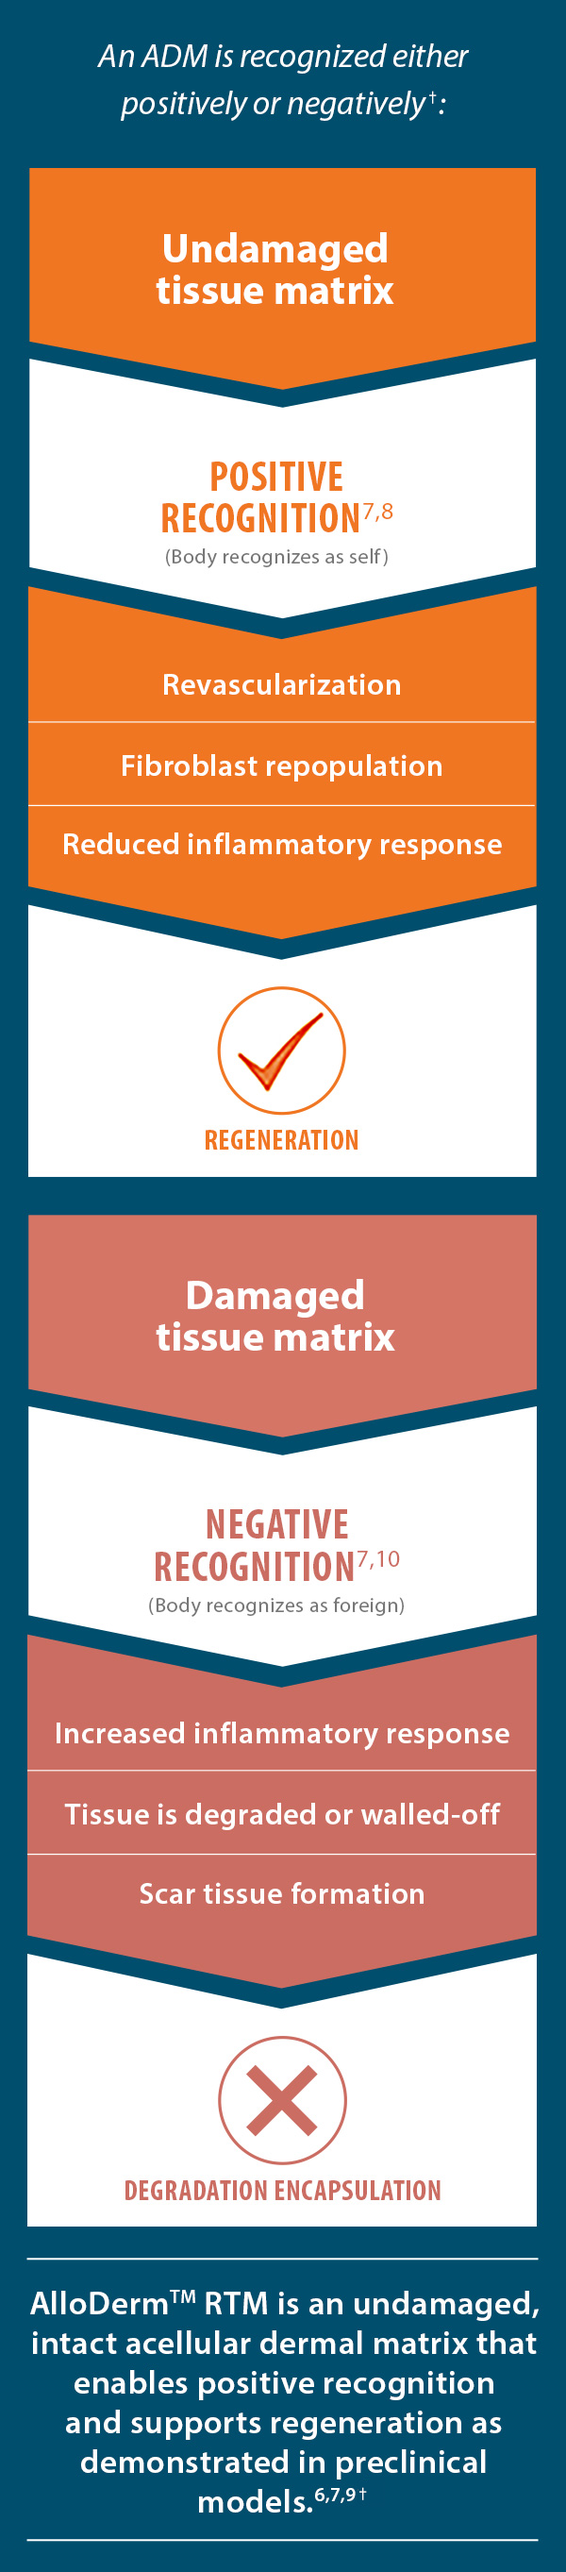
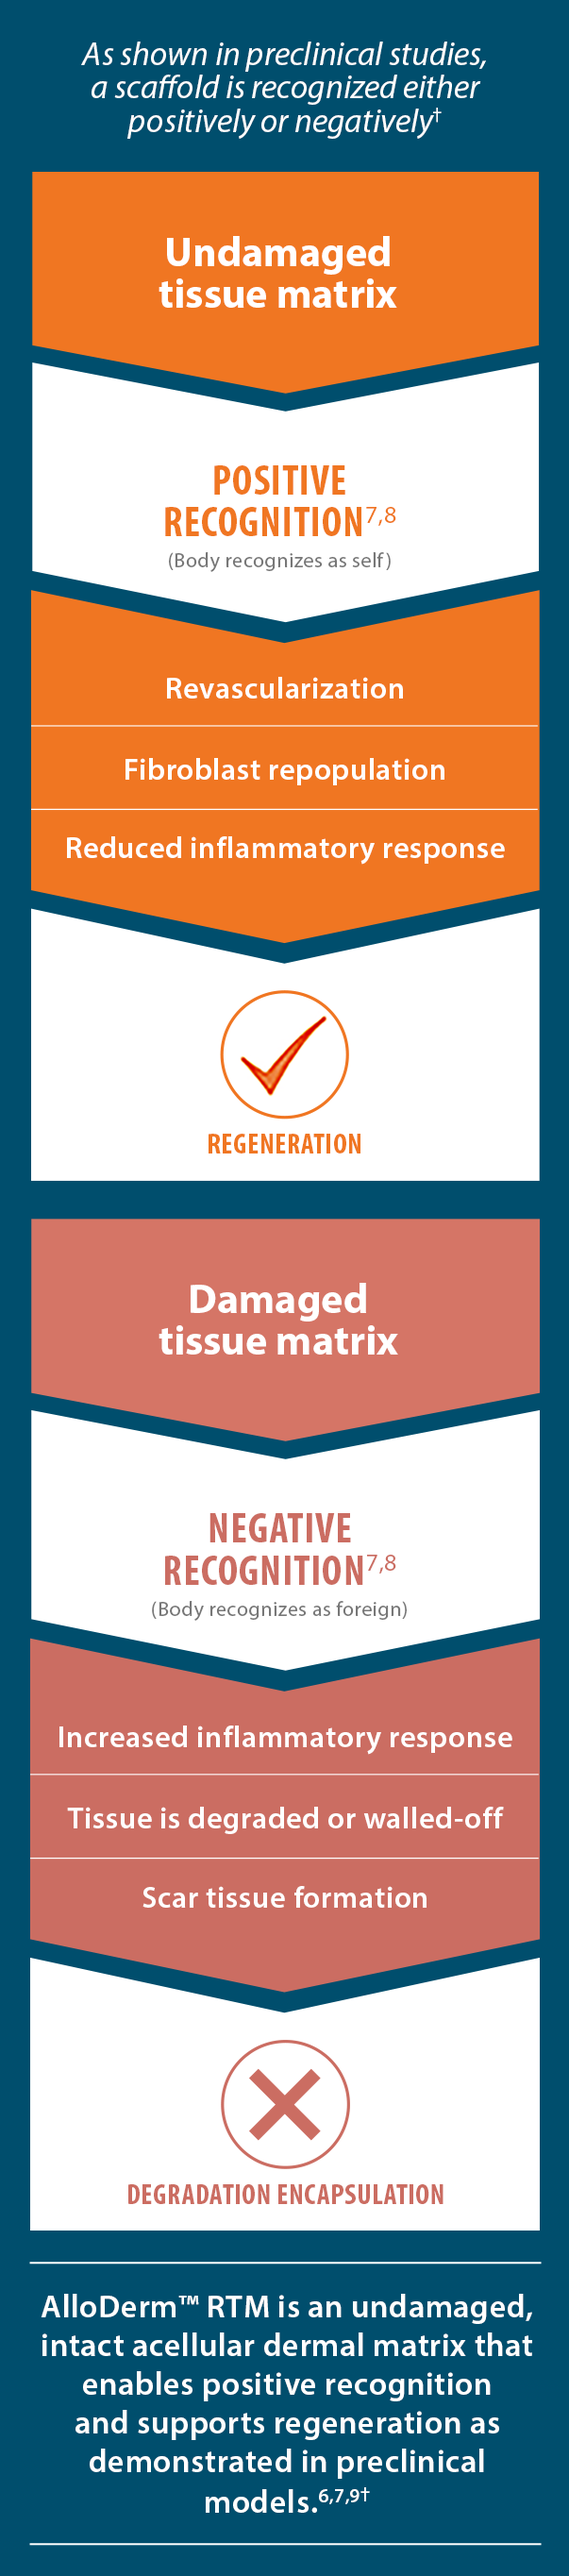
[chore] feedback

diff --git a/src/biologyofrepair.html b/src/biologyofrepair.html
@@ -450,9 +450,9 @@ Complex acellular heterogenous scaffold and blood vessel architecture
 <div class="item">
     <div>
             <div class="item-img">
-<img src="-/media/project/alloderm2022/redesign/biologyrepair/regenerationdesktop.jpg?h=587&amp;w=995&amp;la=en&amp;hash=74D7E18EC94D5CF6FD2FC6175ECB93BEF9672FA8" class="img-fluid d-none d-lg-inline-block d-sm-none d-md-none" alt="" /><img src="-/media/project/alloderm2022/redesign/biologyrepair/Biolregenerationdesktop.jpg?h=587&amp;w=995&amp;la=en&amp;hash=74D7E18EC94D5CF6FD2FC6175ECB93BEF9672FA8" class="img-fluid d-none d-lg-none d-md-inline-block d-sm-none" alt="" /><img src="-/media/project/alloderm2022/redesign/biologyrepair/HomeRegenerationMobile.jpg?h=4709&amp;w=600&amp;la=en&amp;hash=D2593574CA4482E4C4F235B0CD4545A4202F9B95" class="img-fluid d-inline-block d-sm-inline-block d-md-none" alt="" />            </div>
+<img src="-/media/project/alloderm2022/page/home/regeneration-desktop-070124.png?h=587&amp;w=995&amp;la=en&amp;hash=74D7E18EC94D5CF6FD2FC6175ECB93BEF9672FA8" class="img-fluid d-none d-lg-inline-block d-sm-none d-md-none" alt="" /><img src="-/media/project/alloderm2022/page/home/regeneration-desktop-070124.png?h=587&amp;w=995&amp;la=en&amp;hash=74D7E18EC94D5CF6FD2FC6175ECB93BEF9672FA8" class="img-fluid d-none d-lg-none d-md-inline-block d-sm-none" alt="" /><img src="-/media/project/alloderm2022/page/home/regeneration-mobile-070124.png?h=4709&amp;w=600&amp;la=en&amp;hash=D2593574CA4482E4C4F235B0CD4545A4202F9B95" class="img-fluid d-inline-block d-sm-inline-block d-md-none" alt="" />            </div>
                     <div class="item-content">
-                                A scaffold is recognized either positively or negatively<sup>&dagger;</sup>                <div class="clearfix"></div>
+                        As shown in preclinical studies, a scaffold is recognized either positively or negatively<sup>&dagger;</sup>                <div class="clearfix"></div>
 
                 
 
